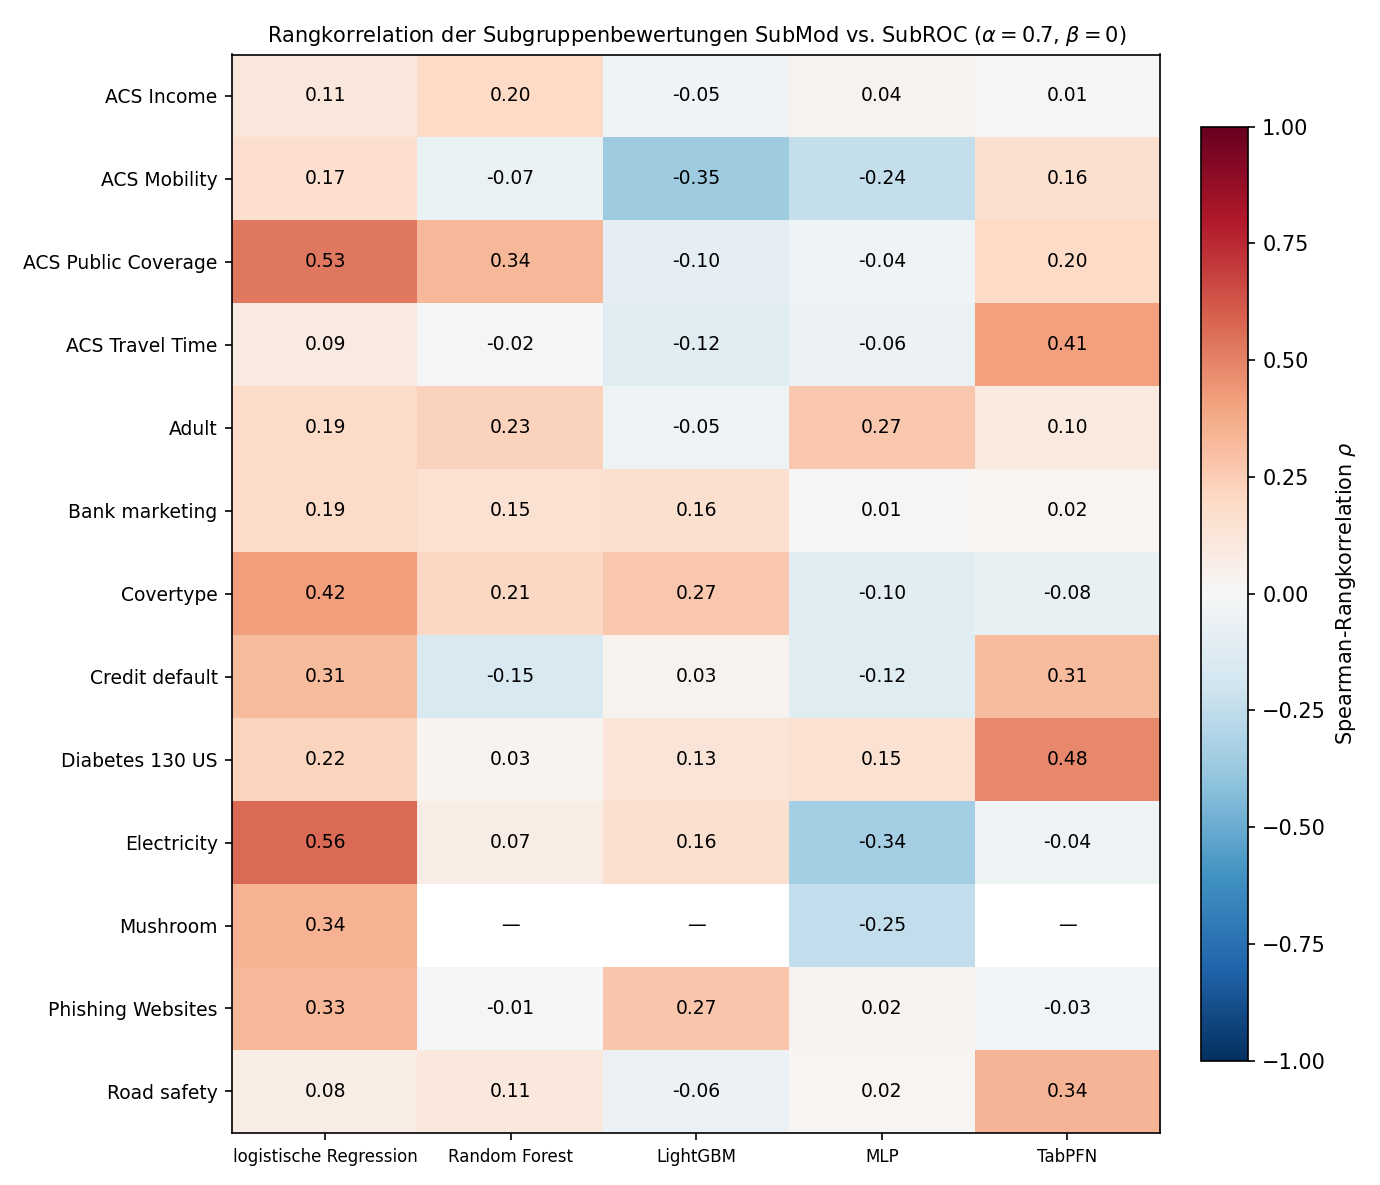
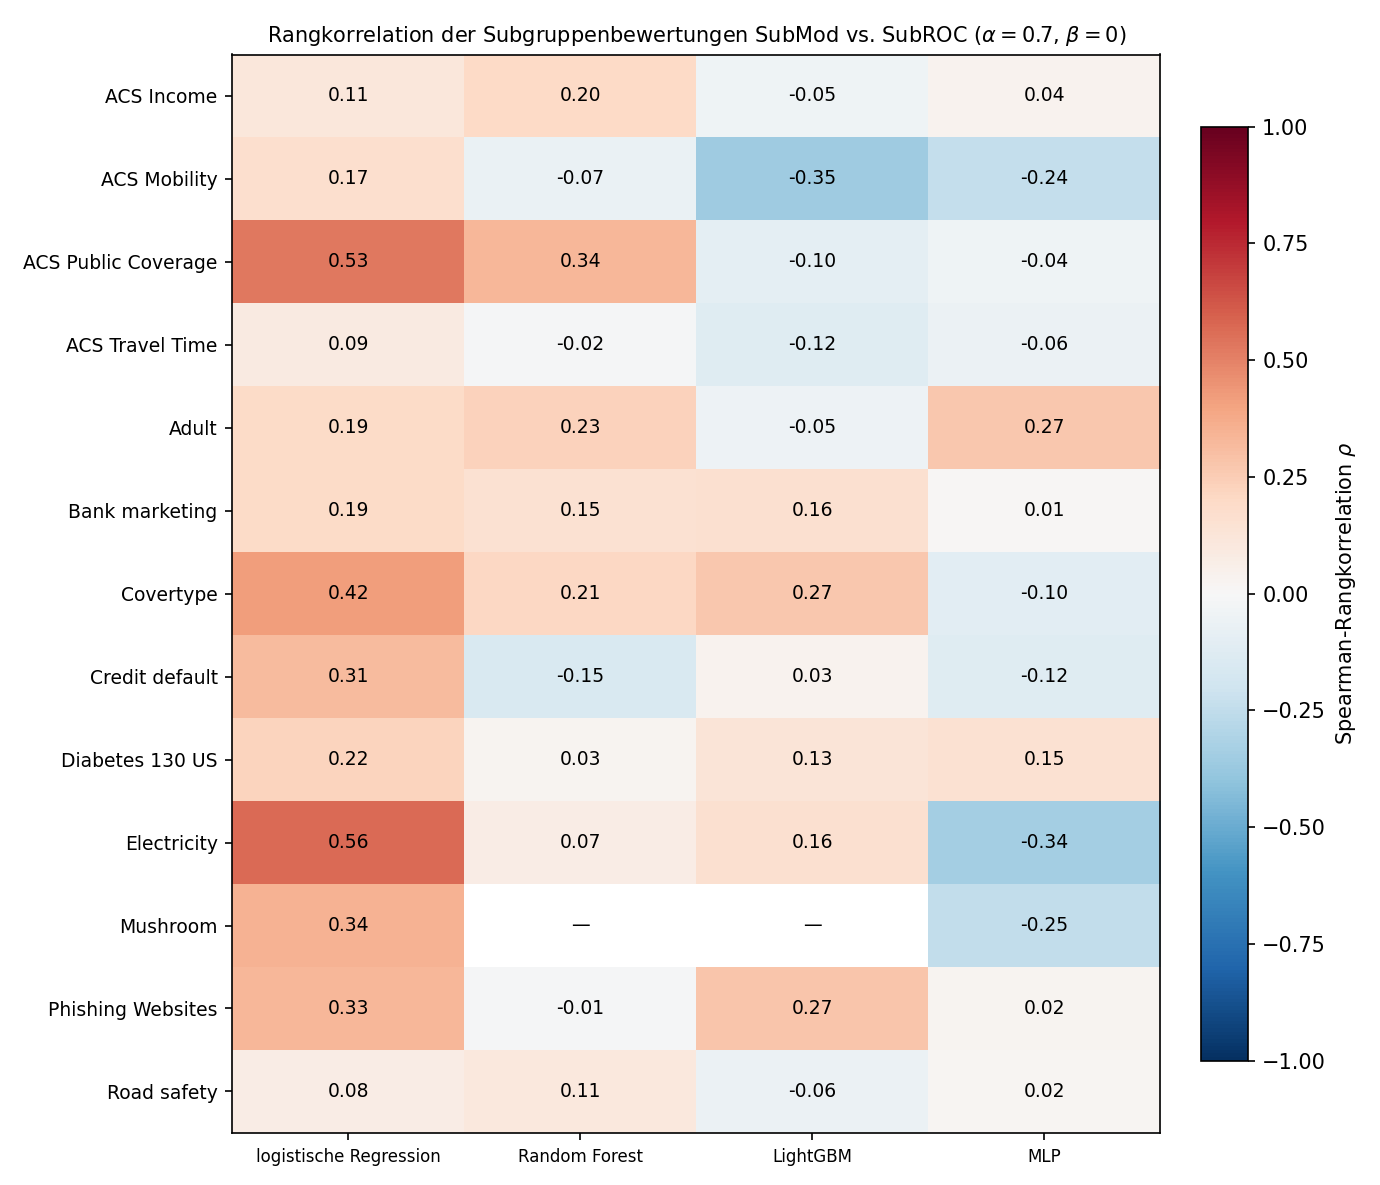
update plot for subroc comparison

diff --git a/thesis/plots/subroc_rank_correlation_alpha_0p7_beta_0/generate_plot.py b/thesis/plots/subroc_rank_correlation_alpha_0p7_beta_0/generate_plot.py
@@ -23,13 +23,12 @@ ROOT = Path(__file__).resolve().parents[3]
 SOURCE = ROOT / "experiments" / "comparison_subroc" / "results" / "phi_on_adapt" / "summary.csv"
 OUT_DIR = Path(__file__).resolve().parent
 VALUE_COLUMN = "spearman_quality_phi_gew"
-MODEL_ORDER = ("lr", "rf", "lgbm", "mlp", "tabpfn")
+MODEL_ORDER = ("lr", "rf", "lgbm", "mlp")
 MODEL_LABELS = {
     "lr": "logistische Regression",
     "rf": "Random Forest",
     "lgbm": "LightGBM",
     "mlp": "MLP",
-    "tabpfn": "TabPFN",
 }
 DATASET_LABELS = {
     "ACSIncome": "ACS Income",
